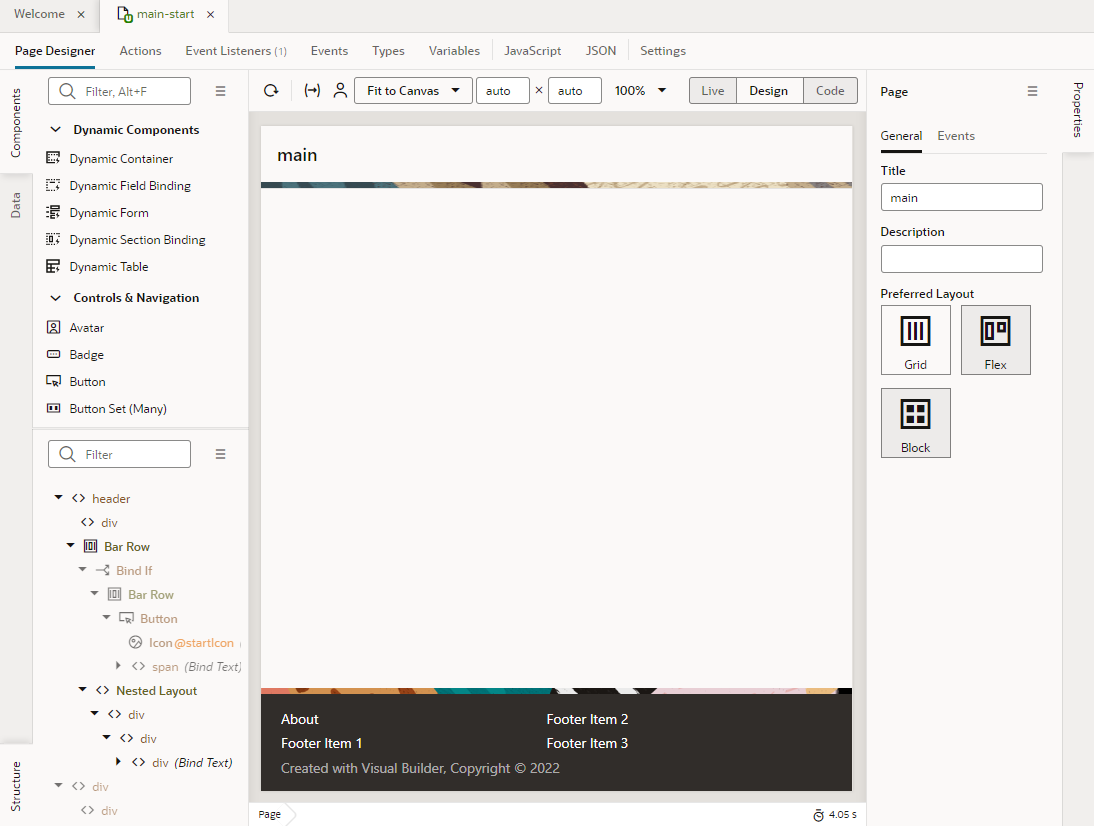
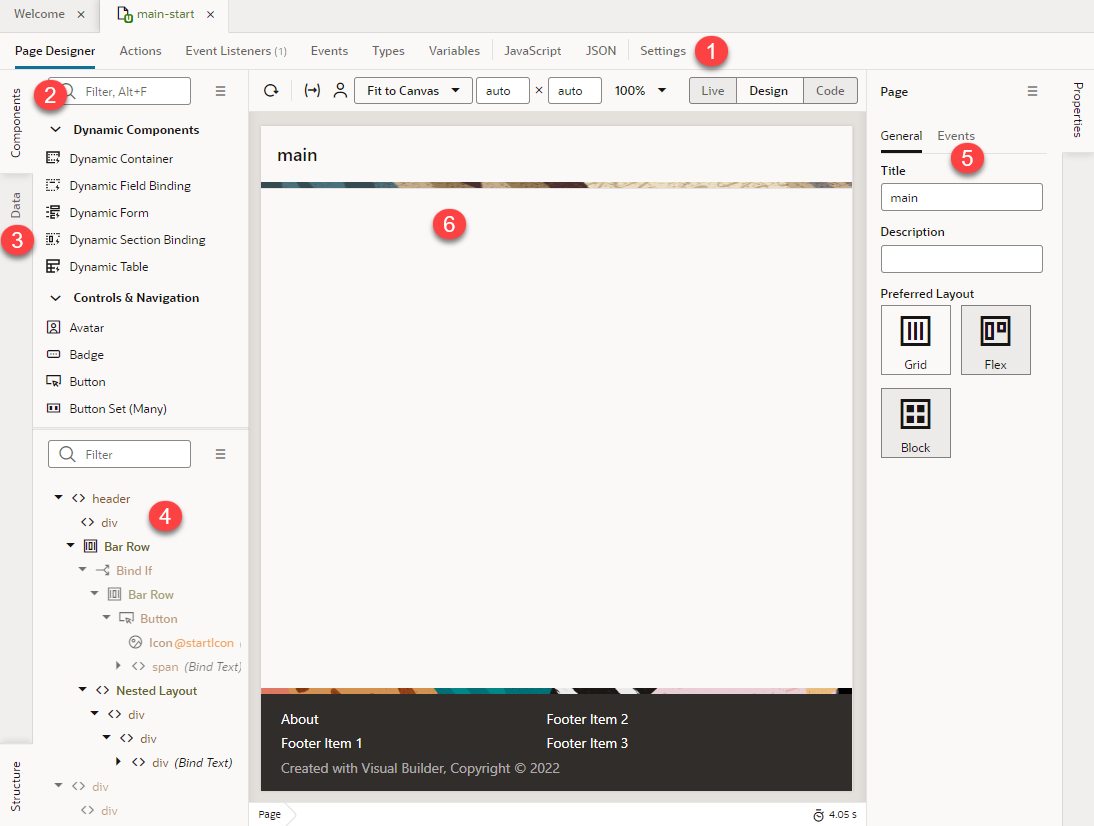
23.01 edits

diff --git a/visual-builder/studio/create-web-app/create-app/create-app.md b/visual-builder/studio/create-web-app/create-app/create-app.md
@@ -41,15 +41,15 @@ The first thing we'll do is add a web app to the HR visual application you just 
 
     ![This image shows part of the HR Visual Application's Welcome page. The page contains tiles in three sections: Connect to Data, Create Apps, and Add Artifacts. On  the right are sections with references to documentation and other resources.](images/visual-app-welcome.png "Welcome page in the Designer")
 
-    The Welcome page contains a set of tiles in three groups: **Connect to Data**, **Create Apps**, and **Add Artifacts**. On the far left are icons representing Mobile Applications, Web Applications, Services, Business Objects, Layouts, Components, Processes, Source, and Git. This vertical toolbar is the Navigator.
+    The Welcome page contains a set of tiles in three groups: **Connect to Data**, **Create Apps**, and **Add Artifacts**. On the far left are icons representing Mobile Applications, Web Applications, Services, Business Objects, Layouts, Components, Processes, Source, and Git artifacts. This vertical toolbar is the Navigator, which helps you move between the artifacts in your visual application.
 
     Now take note of the header:
 
     ![Header in the HR Visual Application workspace. The workspace name HR Visual Application is on the left. Next to it, the Git repository and current branch tutorial-hr-project.git / hrbranch are visible. On the right are icons that let you perform other actions: Undo, Redo, Preview, Publish Changes, Product Feedback, Go to File, and Menu.](images/header.png "Header")
 
-    On the left is the name of your current workspace, **HR Visual Application**; next to it is the project's Git repository (**tutorial-hr-project.git**) and the branch currently associated with your workspace (**hrbranch**). Click each option to see other actions that you can perform from here. Clicking ![Go to Project Page icon](images/go-to-project-home-icon.png) will take you back to the Project Home page.
+    On the left is the name of your current workspace, **HR Visual Application**; next to it is the project's Git repository and the branch currently associated with your workspace (**tutorial-hr-project.git/hrbranch**). Click each option to see other actions that you can perform from here. Clicking ![Go to Project Page icon](images/go-to-project-home-icon.png) will take you back to the Project Home page.
 
-    Elements on the right let you perform various other actions. For example, you can undo your most recent change, redo a change after clicking Undo, or search the Git repository for a file. This workshop primarily demonstrates the options to preview your app, share it, and publish changes.
+    Elements on the right let you perform various other actions, such as undo a change or search the Git repository for a file. This workshop primarily demonstrates the options to preview your app, share it, and publish changes. If you make a mistake during this lab, click Undo to back out of the last step you did.
 
 2. We want to create a web application, so under **Create Apps**, let's click the **Web Apps** tile.
 
@@ -61,17 +61,25 @@ The first thing we'll do is add a web app to the HR visual application you just 
 
 4. In the Create Web Application window, enter `hrwebapp` as the **Application Name**. (You can specify uppercase as well as lowercase characters in the application name, but the name is converted to lowercase.) Leave the **Navigation Style** set to the default, **None**, and click **Create**.
 
-    The application opens on the **main-start** page, which is your application's default home page created automatically for you. By convention, a page name takes its flow as a prefix. This simple application uses only the **main** flow. More complex applications can have more than one flow.
+    The application opens on the **main-start** page, which is your application's default home page created automatically for you. (Ignore the **This dot says that you have made some changes** dialog that appears in the header for now; we'll explore Git changes in a later lab.)
 
-    (You can ignore the **This dot says that you have made some changes** dialog that appears in the header for now; we'll explore Git changes in a later lab.)
-
+    What you see under the **main-start** tab is your application's main work area:
     ![Web Apps pane after the hrwebapp has been created. The app itself is open on the right, on the main-start page, showing the Components Palette. On the far right, the Properties tab shows the Page view.](images/designer.png "Web Apps pane with the hrwebapp")
 
-    What you see under the **main-start** tab is your application's main work area. Just under main-start are several horizontal tabs: **Page Designer**, **Actions**, **Event Listeners**, and so on. Each tab provides editors to help you examine and modify artifacts used in the page. By default, the page opens in the **Page Designer** that features the **Components** palette, the **Data** palette, and the **Structure** view on the left edge of the work area. To design your pages, you'll drag UI components from the Components palette to the canvas. Once you add components, the hierarchy of those components on your page will show in the Structure view.
+    Here are the key areas you'll use throughout this workshop:
+    | # | Tab | Functionality |
+    | --- | ---- | --- |
+    | 1 | Editors | Horizontal tabs (**Page Designer**, **Actions**, and so on) that provide editors to help you examine and modify artifacts used in the page |
+    | 2 | Components | UI components (sorted by categories) that you can drag and drop onto a page|
+    | 3 | Data | Data endpoints based on business objects you create |
+    | 4 | Structure | Hierarchical view of the page's structure  |
+    | 5 | Properties | Properties for a component selected in your page. When the entire page is selected (as it is now), you'll see the Page view where you can choose a preferred page layout.|
+    | 6 | Canvas | A design/live view (or code view) of your page content |
+    {: title="Work Area"}
 
-    On the far right is the **Properties** pane, which lets you view or edit a component's properties. When the entire page is selected (as it is now), the Properties pane shows the Page view, where you can choose a preferred page layout. Click **Properties** (the vertical tab located along the right-most edge of your browser) to hide the Properties pane and expand your work area.
+    As you design pages, you can collapse and expand tabs to better manage your working area. For example, click **Properties** to hide the Properties pane and expand your work area. When collapsed, the tab will show as a vertical tab on the side of the editor. To expand or collapse a tab, click that specific tab.
 
-    You can move different panes to customize your work area. For example, right-click **Structure** at the bottom of your work area, then select **Move to Top Left** to move the Structure view right under **Components** and **Data**.
+    You can also move different panes to customize your work area. For example, right-click **Structure** at the bottom of your work area, then select **Move to Top Left** to move the Structure view right under **Components** and **Data**.
 
     ![Structure view's right-click menu, with the option to 'Move to Top Left' selected. Other options are 'Move to Bottom Left', 'Move to Top Right', 'Move to Bottom Right', and 'Reset All Panels to Default'.](images/structure-view-move.png "Structure view right-click menu")
 
@@ -79,7 +87,11 @@ The first thing we'll do is add a web app to the HR visual application you just 
 
      ![The main-start page tab's right-click menu, with options to 'Close Tab', 'Close Other Tabs', 'Close Tabs to the Right', 'Close All Tabs', and 'Select in Navigator'.](images/tab.png "main-start page tab right-click menu")
 
-    In the Web Apps pane, expand the **hrwebapp** and **main** nodes to get a tree view of your web application.
+    In the Web Apps pane, expand the **hrwebapp** and **main** nodes to get a tree view of your web application's flows and pages.
+
+     ![The Web Apps pane shows the hrwebapp's tree view. Under hrwebapp, main is expanded with main-start nested under. At the same level as main are the Fragments, Resources, and Root Pages nodes.](images/treeview.png "")
+
+    A _flow_ contains pages that relate to each other. An application can have multiple flows, and a flow can contain many pages. This simple application contains only one flow, **main**, and one page, **main-start**, though we'll add more pages during this workshop. By convention, a page takes its flow name as a prefix.
 
 ## Task 2: Create a Location business object and import data
 

diff --git a/visual-builder/studio/create-web-app/introduction/introduction.md b/visual-builder/studio/create-web-app/introduction/introduction.md
@@ -4,7 +4,7 @@
 
 This workshop shows how you can use Oracle Visual Builder Studio to create a web app in a collaborative team environment. You'll see how easy it is to design a web app, manage its changes as part of a Git repository, and seamlessly deploy it for users—all within a short time.
 
-Visual Builder Studio—also known as VB Studio—is a visual development platform that helps your team plan and manage your application's lifecycle, right from design and develop through test and deploy. It provides a rich set of UI components that you can drag and drop in a visual designer to rapidly build engaging and responsive web apps. This intuitive approach lends itself to low-code developers, but experienced programmers can just as easily access the underlying source code and customize it for their requirements.
+Visual Builder Studio—VB Studio for short—is a visual development platform that helps your team plan and manage your application's lifecycle, right from design and develop through test and deploy. It provides a rich set of UI components that you can drag and drop in a visual designer to rapidly build engaging and responsive web apps. This intuitive approach lends itself to low-code developers, but experienced programmers can just as easily access the underlying source code and customize it for their requirements.
 
 Integrated Git repositories enable a collaborative environment to share and version code; Agile dashboards and issue tracking systems help teams track progress; and automated builds support continuous integration and delivery pipelines. A separate instance of Oracle Visual Builder provides easy publishing and database options when you’re ready to deploy your app. This means, you can publish your app instantly and access it on any device, anytime. You can even deploy it as a Progressive Web App (PWA), so it can be installed on the user’s device to tap into device capabilities such as camera and GPS.
 

diff --git a/visual-builder/studio/create-web-app/create-service-connection/create-service-connection.md b/visual-builder/studio/create-web-app/create-service-connection/create-service-connection.md
@@ -8,7 +8,7 @@ Estimated Time:  15 minutes
 
 ### About this lab
 
-So far in this workshop, you've created business objects to store data in an embedded database and accessed that data through REST endpoints that were automatically created for you. But business objects aren't the only option for data access; in fact, you can connect to *any* REST-enabled data source by creating a *service connection*.
+So far in this workshop, you've created business objects to store your data in an embedded database and accessed that data through REST endpoints that were automatically created for you. But business objects aren't the only option for data access; in fact, you can connect to *any* REST-based data source by creating a *service connection*.
 
 Service connections let you access data objects exposed by Oracle services as well as external services. If you want to connect to REST APIs exposed by Oracle Cloud Applications or Oracle Integration, you have access to an integrated service catalog. If you want to call an external REST service, you can do that too with just a few clicks. In this lab, we'll create a service connection to a publicly available REST service and wire our pages to get information about the country that an employee works from.
 
